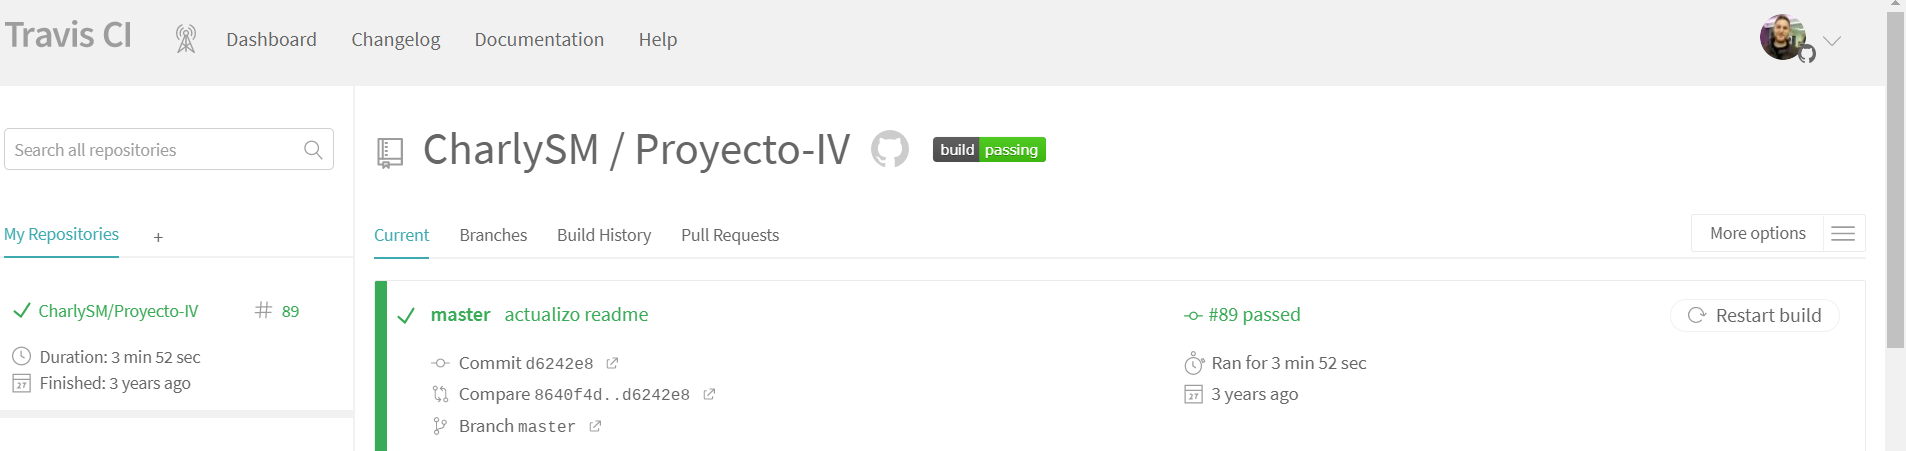
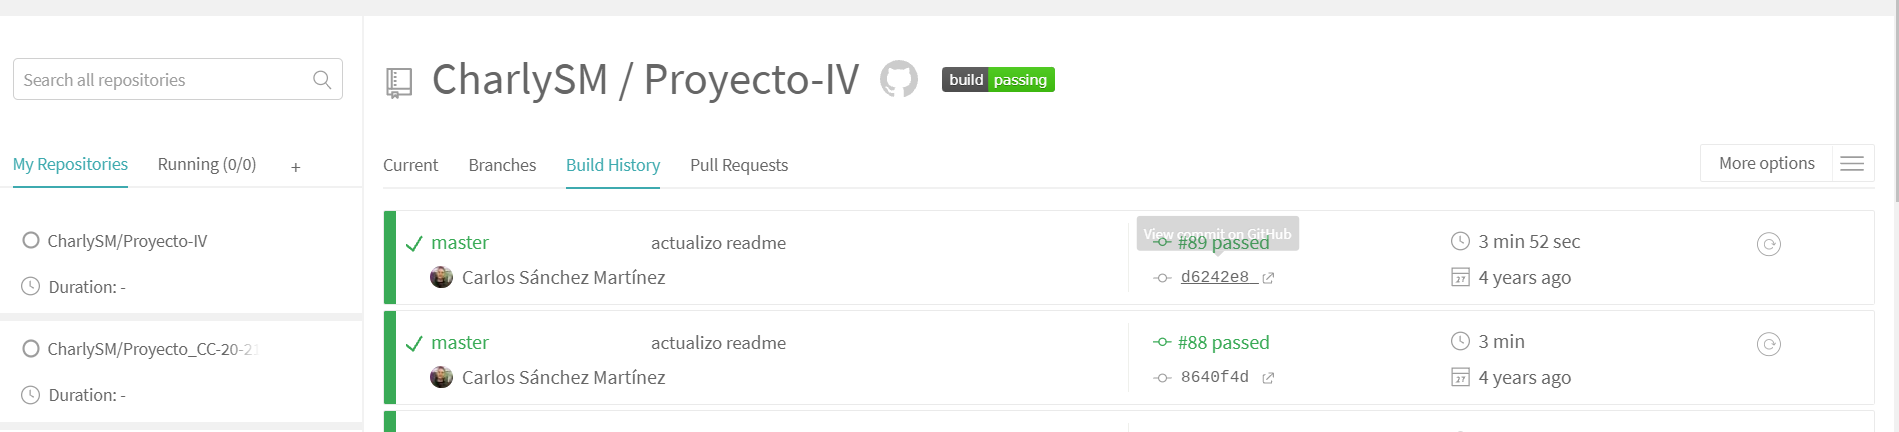
corregido imagenes travis

diff --git a/tema2/ejercicios.md b/tema2/ejercicios.md
@@ -135,6 +135,8 @@ Después vemos como podemos acceder a travis con nuestra cuenta de github, en mi
 
 ![acceso travis](https://github.com/CharlySM/EjerciciosCC2021/blob/main/tema2/img/travis2.PNG)
 
-Lo que hacemos ahora es añadir un nuevo repositorio a travis, este repositorio es el del proyecto de CC del master de ingeniería informática de la UGR.
+Además vemos añadido el repositorio usado en convocatorias anteriores de la asignatura.
+
+Lo que hacemos ahora es añadir un nuevo repositorio a travis, este repositorio es el del proyecto de CC del master de ingeniería informática de la UGR. La carpeta se llama ProyectoCC.
 
 ![acceso travis](https://github.com/CharlySM/EjerciciosCC2021/blob/main/tema2/img/travis3.PNG)
